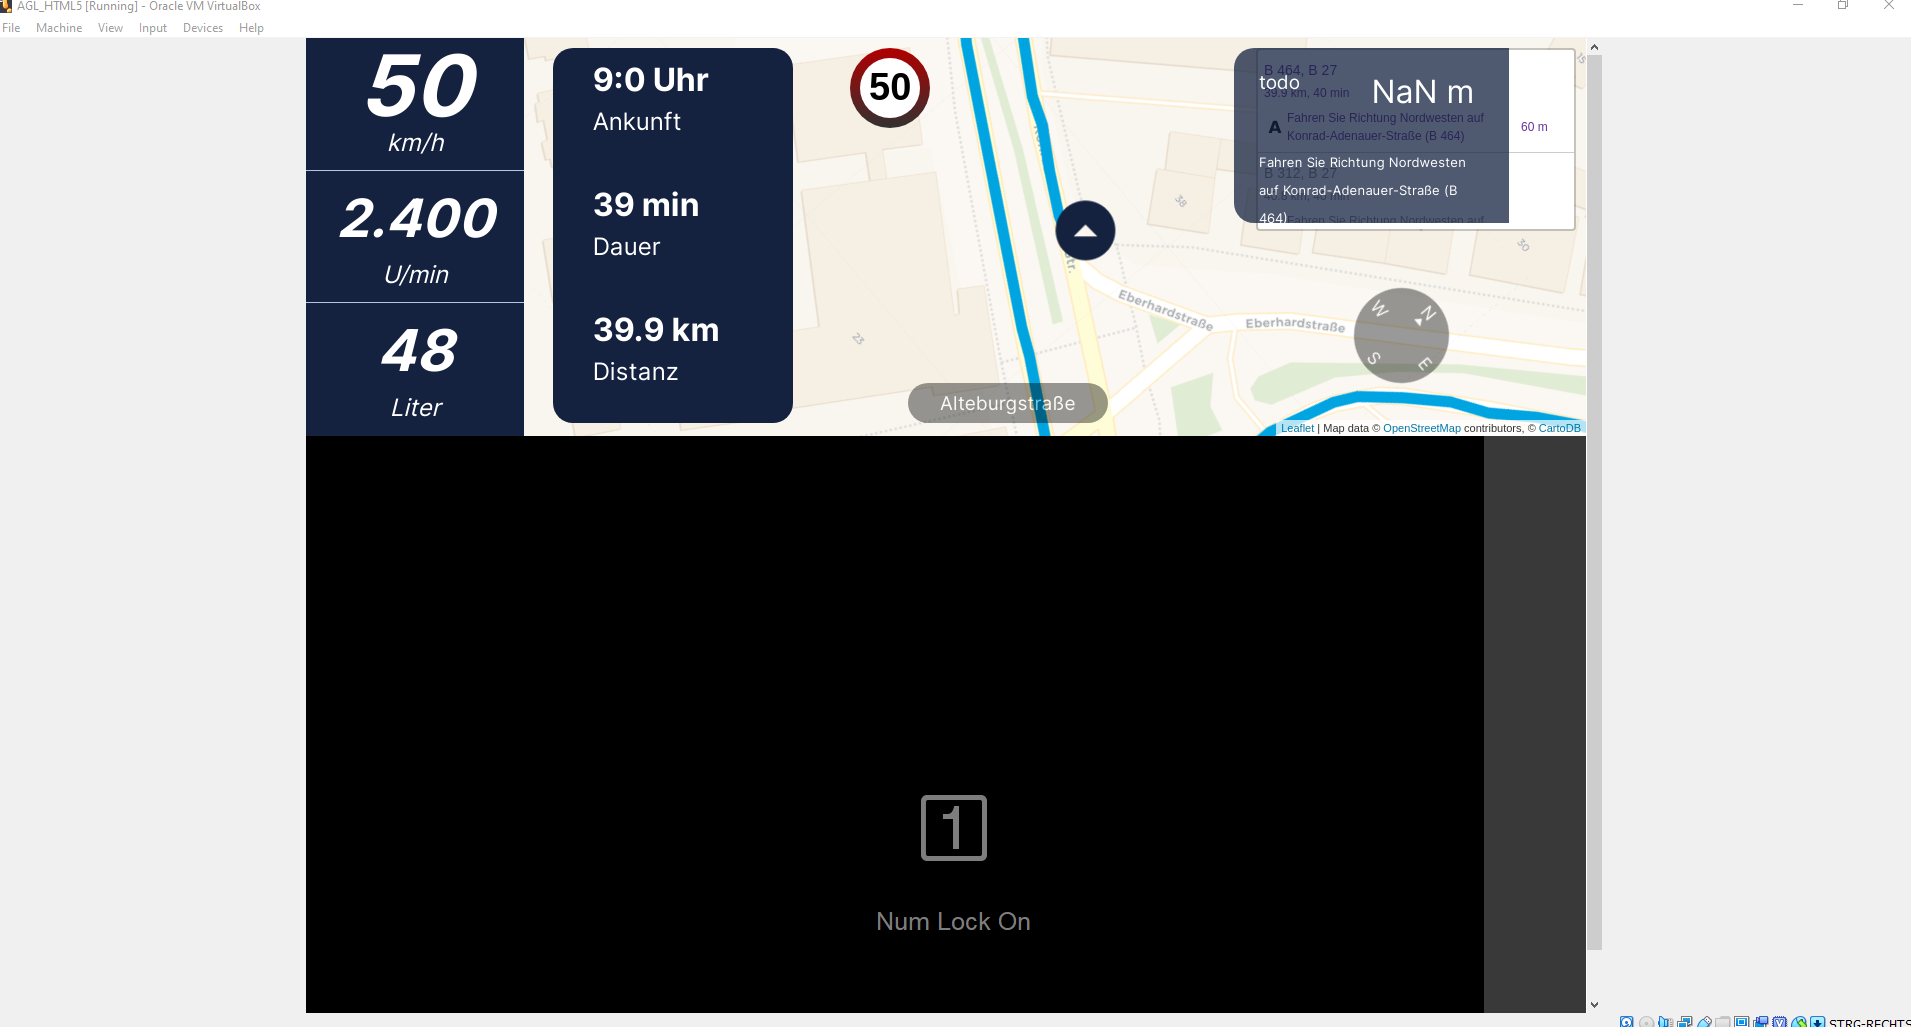
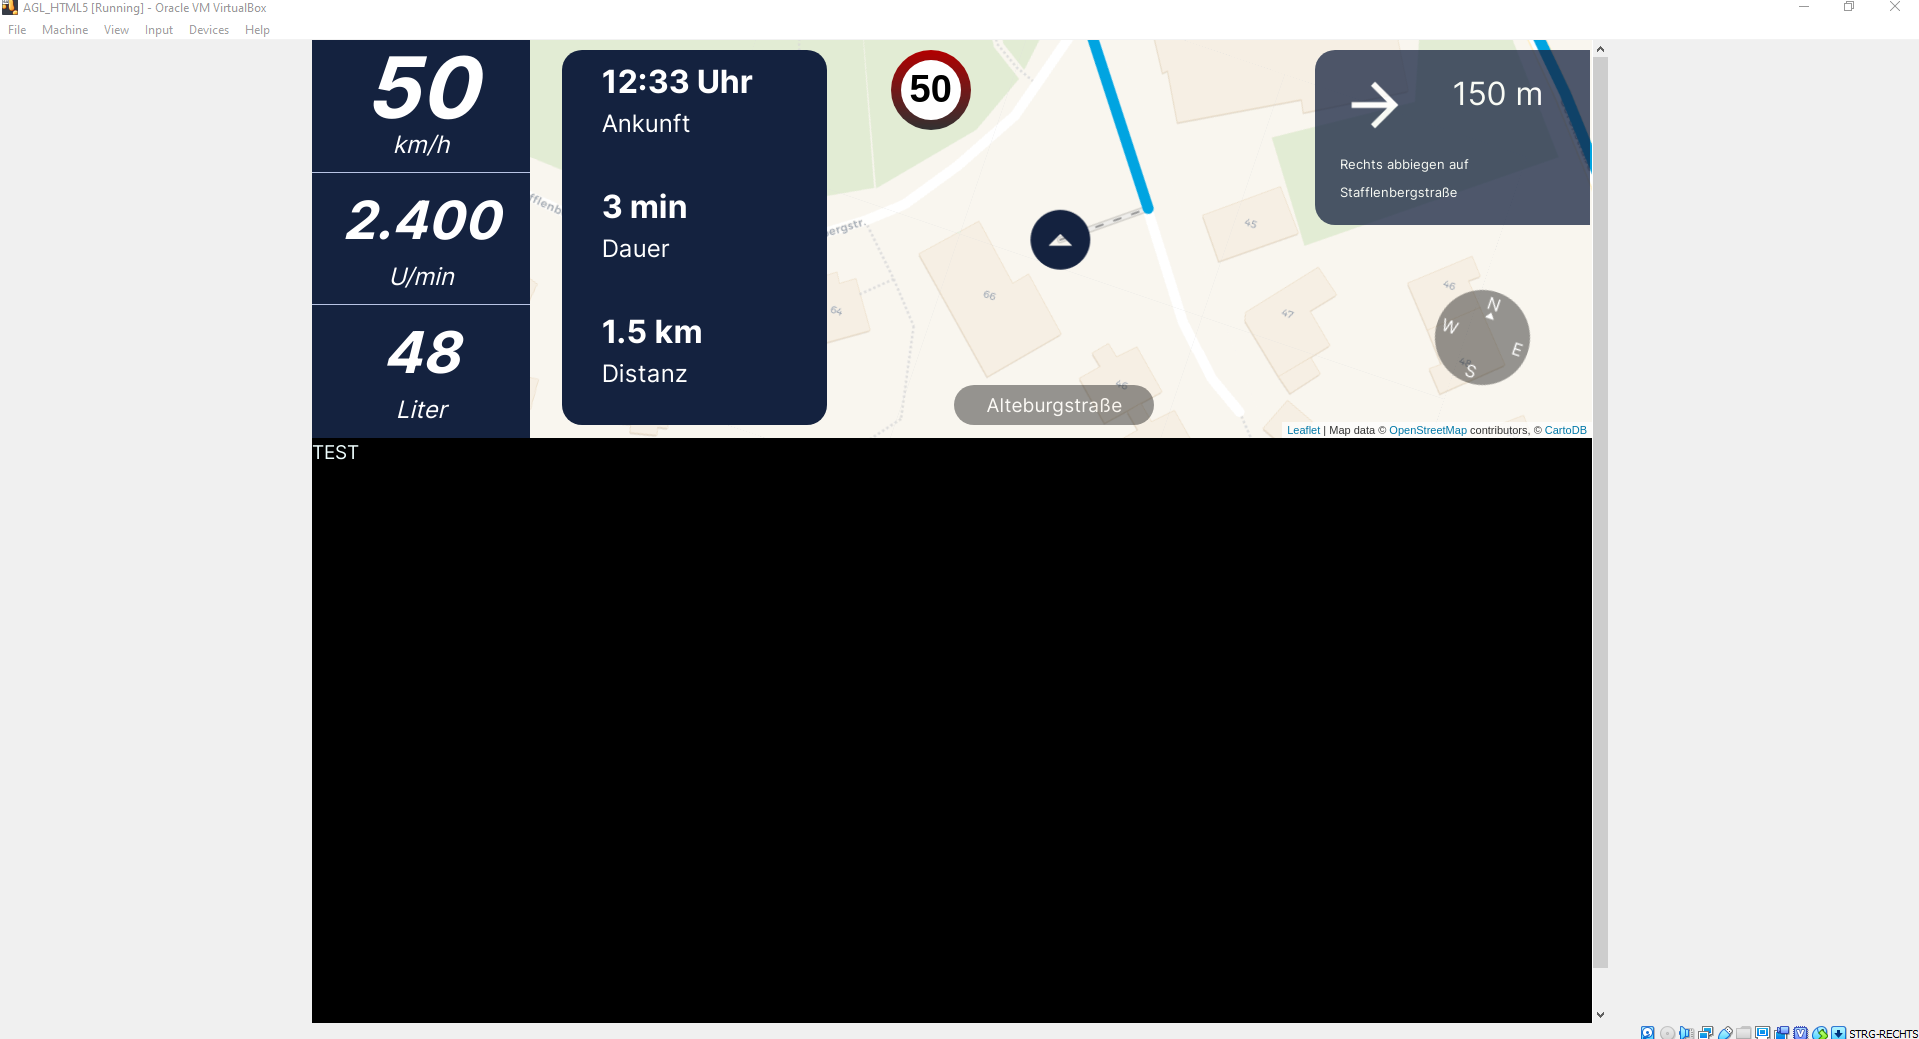
fake simulate rpm etc.

diff --git a/src/js/app.js b/src/js/app.js
@@ -146,7 +146,34 @@ lowcan.subscribe_by_event(function(data){
 }
 
 
+export function simulate() {
+    console.log('SIMULATE');
+    var counter = 0;
+    var interval = setInterval(function() {
+        counter ++;
+        if( page.speed < 60 ) {
+            page.speed += Math.floor(Math.random()*10);
+            if( page.rpm.value < 80/100*5000 ) {
+                page.rpm.value += Math.floor(Math.random()*25);
+            } else {
+                page.rpm.value = 40/100*5000;
+            }
+        } else if (Math.random() > 0.5 ) {
+            page.speed += Math.floor(Math.random()*10);
+            page.rpm.value = Math.min(80, Math.floor(Math.random()*90))/100*5000;
+        } else {
+            page.speed -= Math.floor(Math.random()*10);
+            page.rpm.value = Math.min(80, Math.floor(Math.random()*90))/100*5000;
+        }
 
+        page.rpm_value_formatted = niceFormat(page.rpm.value);
 
+        show();
+
+        if( counter > 600 ) {
+            clearInterval(interval);
+        }
+    }, 1000);
+}
 
 

diff --git a/src/index.js b/src/index.js
@@ -29,3 +29,4 @@ window.time = time;
 api.init();
 background.load();
 app.init();
+app.simulate();
